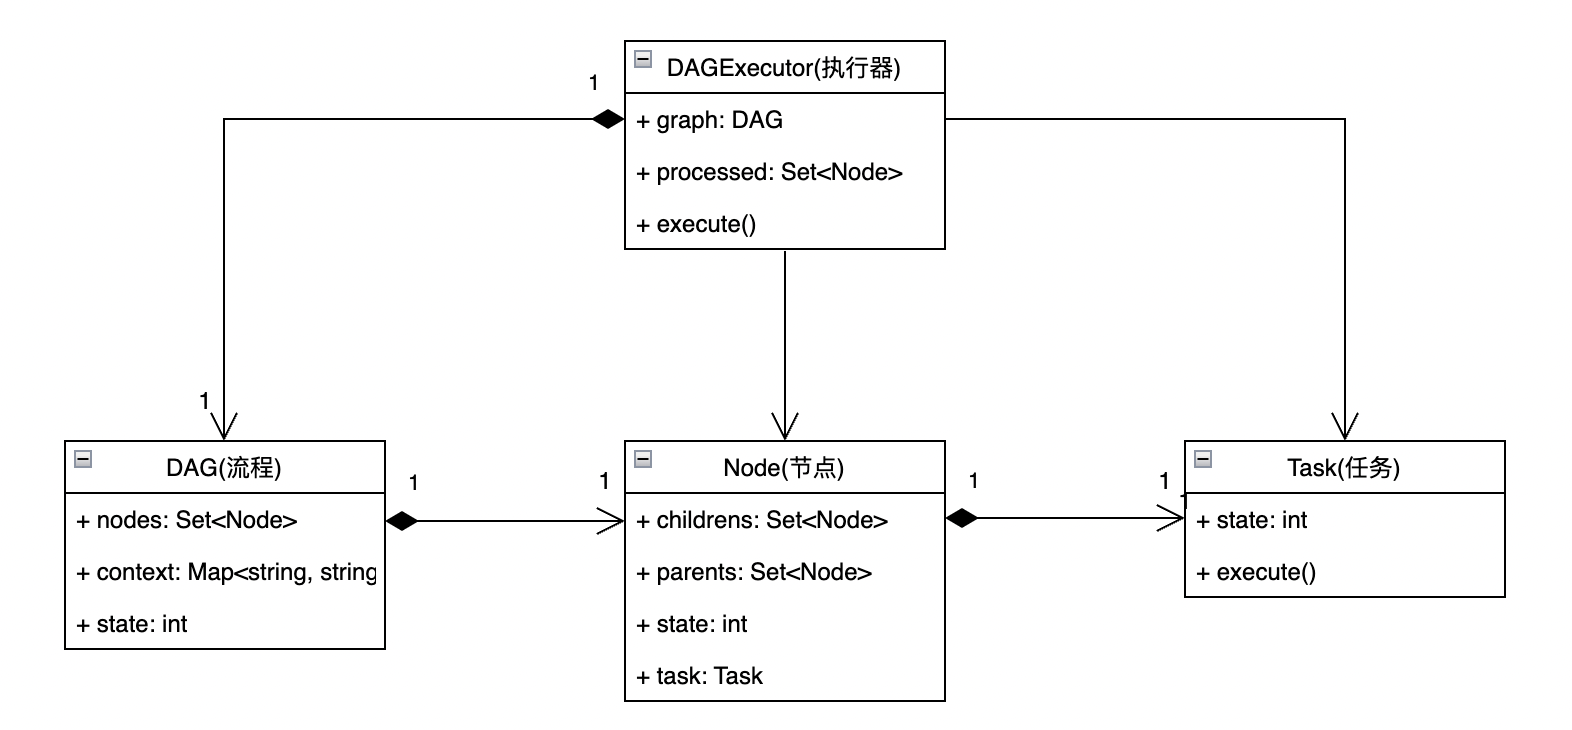
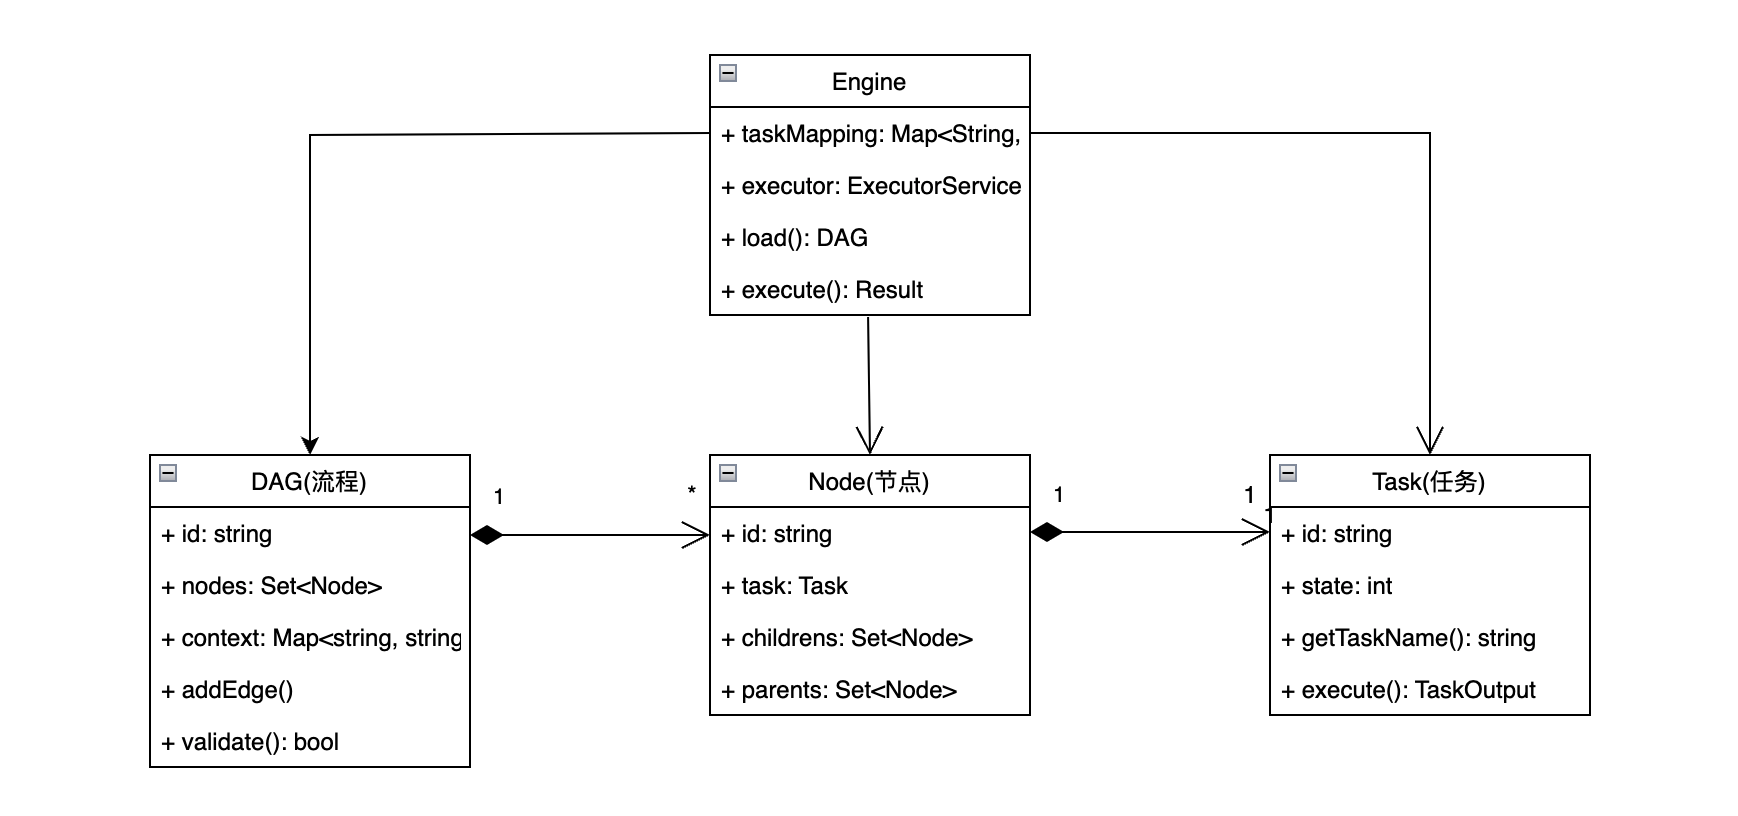
feat: 更新Readme

diff --git a/README.md b/README.md
@@ -1,30 +1,47 @@
 # workflow-dag是什么？
 workflow-dag 是一个基于Java实现的DAG有向无环图。DAG有向无环图是一个特殊类型的图，它由一组节点和有向边组成。在DAG中，边具有特定的方向，表示节点之间的流动或关系。  
+  
+在任务开发场景中比如离线处理、大数据等，通常有较多的类型的任务，任务之间又有一定的执行依赖顺序。业务早期由于流程简单，可以通过代码编写等方式完成，随着业务的数量增加、流程的复杂度增加，会遇到以下问题：
+- 研发成本高。业务接入和流程调整、新任务接入都需要大量的重复工作，研发成本非常高；
+- 可维护性差。通过代码实现业务流程，改动和维护成本都非常高，频繁的发布部署，容易引起线上故障；
+- 可观测性差。任务依赖顺序都是通过代码实现，实际的依赖顺序、执行情况无法有效地观测。  
+任务编排就为了解决上述问题，任务编排是指通过对任务进行标准化，以及任务之间的关系进行建模，使得任务按照定义的方式顺序执行。DAG有向无环图则是任务编排模型中最常见的、有效的实现方式。
 
 
 # workflow-dag能做什么？
 workflow-dag 用于解决任务调度中任务之间的依赖关系，通过DAG描述使得任务按照预期的顺序正确执行。  
-
+作为任务编排的DAG支持以下特征：
+- 支持任务自定义；
+- 支持灵活的任务依赖顺序；
+- 支持配置化描述DAG；
+- 支持任务间的并行执行;
+- 支持度量统计等功能。
 
 # workflow-dag怎么设计？
 <img width="796" alt="image" src="https://github.com/AaronSheng/workflow-dag/blob/master/src/main/resources/domain.png">
-   
-- DAG(流程): 有向无环图，负责描述有向无环图依赖关系；
+
+- DAG(流程): 有向无环图，负责描述有向无环图依赖、合法性校验；
 - Node(节点): 流程节点，负责描述单个节点；
 - Task(任务): 执行任务，负责任务实现；
-- DAGExecutor(执行器): DAG执行器，负责流程引擎执行。
+- Engine(引擎): DAG执行器，负责配置化解析、流程引擎执行。
 
 # workflow-data怎么使用？
+## 方法一：代码初加载运行
 ```
-public class Main {
-    public static void main(String[] args) {
-        DAG<PrintTask> graph = new DefaultDAG<>();
-        Node<PrintTask> nodeA = new DefaultNode<>(new PrintTask("A"));
-        Node<PrintTask> nodeB = new DefaultNode<>(new PrintTask("B"));
-        Node<PrintTask> nodeC = new DefaultNode<>(new PrintTask("C"));
-        Node<PrintTask> nodeD = new DefaultNode<>(new PrintTask("D"));
-        Node<PrintTask> nodeE = new DefaultNode<>(new PrintTask("E"));
-        Node<PrintTask> nodeF = new DefaultNode<>(new PrintTask("F"));
+public class EngineTest {
+    private static final Logger LOGGER = LogManager.getLogger(EngineTest.class);
+
+    @Test
+    public void testExecute() {
+        DAG<Task> graph = new DefaultDAG<>();
+
+        PrintTask printTask = new PrintTask();
+        Node<Task> nodeA = new DefaultNode<>("A", printTask);
+        Node<Task> nodeB = new DefaultNode<>("B", printTask);
+        Node<Task> nodeC = new DefaultNode<>("C", printTask);
+        Node<Task> nodeD = new DefaultNode<>("D", printTask);
+        Node<Task> nodeE = new DefaultNode<>("E", printTask);
+        Node<Task> nodeF = new DefaultNode<>("F", printTask);
 
         graph.addEdge(nodeA, nodeB);
         graph.addEdge(nodeB, nodeC);
@@ -36,9 +53,76 @@ public class Main {
         Map<String, String> parameters = new HashMap<>();
         parameters.put("FlowID", graph.getId());
 
-        DAGExecutor<PrintTask> executor = new DAGExecutor<>(graph, parameters);
-        ExecOutput output = executor.execute();
-        System.out.printf("Exec Flow:%s Succeed:%s\n",  output.getId(), output.isSucceed());
+        Engine engine = new Engine();
+        engine.register(printTask);
+
+        Result result = engine.execute(graph, parameters);
+        LOGGER.info("Exec Flow:{} Succeed:{} Output:{}", graph.getId(), result.isSucceed(), result.getOutput());
+    }
+}
+```
+
+## 方法二：配置化加载运行
+```
+public class LoadTest {
+
+    @Test
+    public void testLoad() {
+        String dag = "{\n" +
+                "    \"nodes\":[\n" +
+                "        {\n" +
+                "            \"id\":\"1\",\n" +
+                "            \"task_name\":\"PrintTask\"\n" +
+                "        },\n" +
+                "        {\n" +
+                "            \"id\":\"2\",\n" +
+                "            \"task_name\":\"PrintTask\"\n" +
+                "        },\n" +
+                "        {\n" +
+                "            \"id\":\"3\",\n" +
+                "            \"task_name\":\"PrintTask\"\n" +
+                "        },\n" +
+                "        {\n" +
+                "            \"id\":\"4\",\n" +
+                "            \"task_name\":\"PrintTask\"\n" +
+                "        }\n" +
+                "    ],\n" +
+                "    \"edges\":[\n" +
+                "        {\n" +
+                "            \"from\":\"1\",\n" +
+                "            \"to\":\"2\"\n" +
+                "        },\n" +
+                "        {\n" +
+                "            \"from\":\"1\",\n" +
+                "            \"to\":\"3\"\n" +
+                "        },\n" +
+                "        {\n" +
+                "            \"from\":\"2\",\n" +
+                "            \"to\":\"4\"\n" +
+                "        },\n" +
+                "        {\n" +
+                "            \"from\":\"3\",\n" +
+                "            \"to\":\"4\"\n" +
+                "        }\n" +
+                "    ],\n" +
+                "    \"parameters\":{\n" +
+                "\n" +
+                "    }\n" +
+                "}";
+
+        System.out.println(dag);
+
+        Engine engine = new Engine();
+        PrintTask printTask = new PrintTask();
+        engine.register(printTask);
+
+        DAG<Task> graph = engine.load(dag);
+
+        Map<String, String> parameters = new HashMap<>();
+        parameters.put("FlowID", graph.getId());
+
+        Result result = engine.execute(graph, parameters);
+        System.out.printf("Exec Flow:%s Succeed:%s Output:%s\n", graph.getId(), result.isSucceed(), result.getMessage());
     }
 }
 ```
